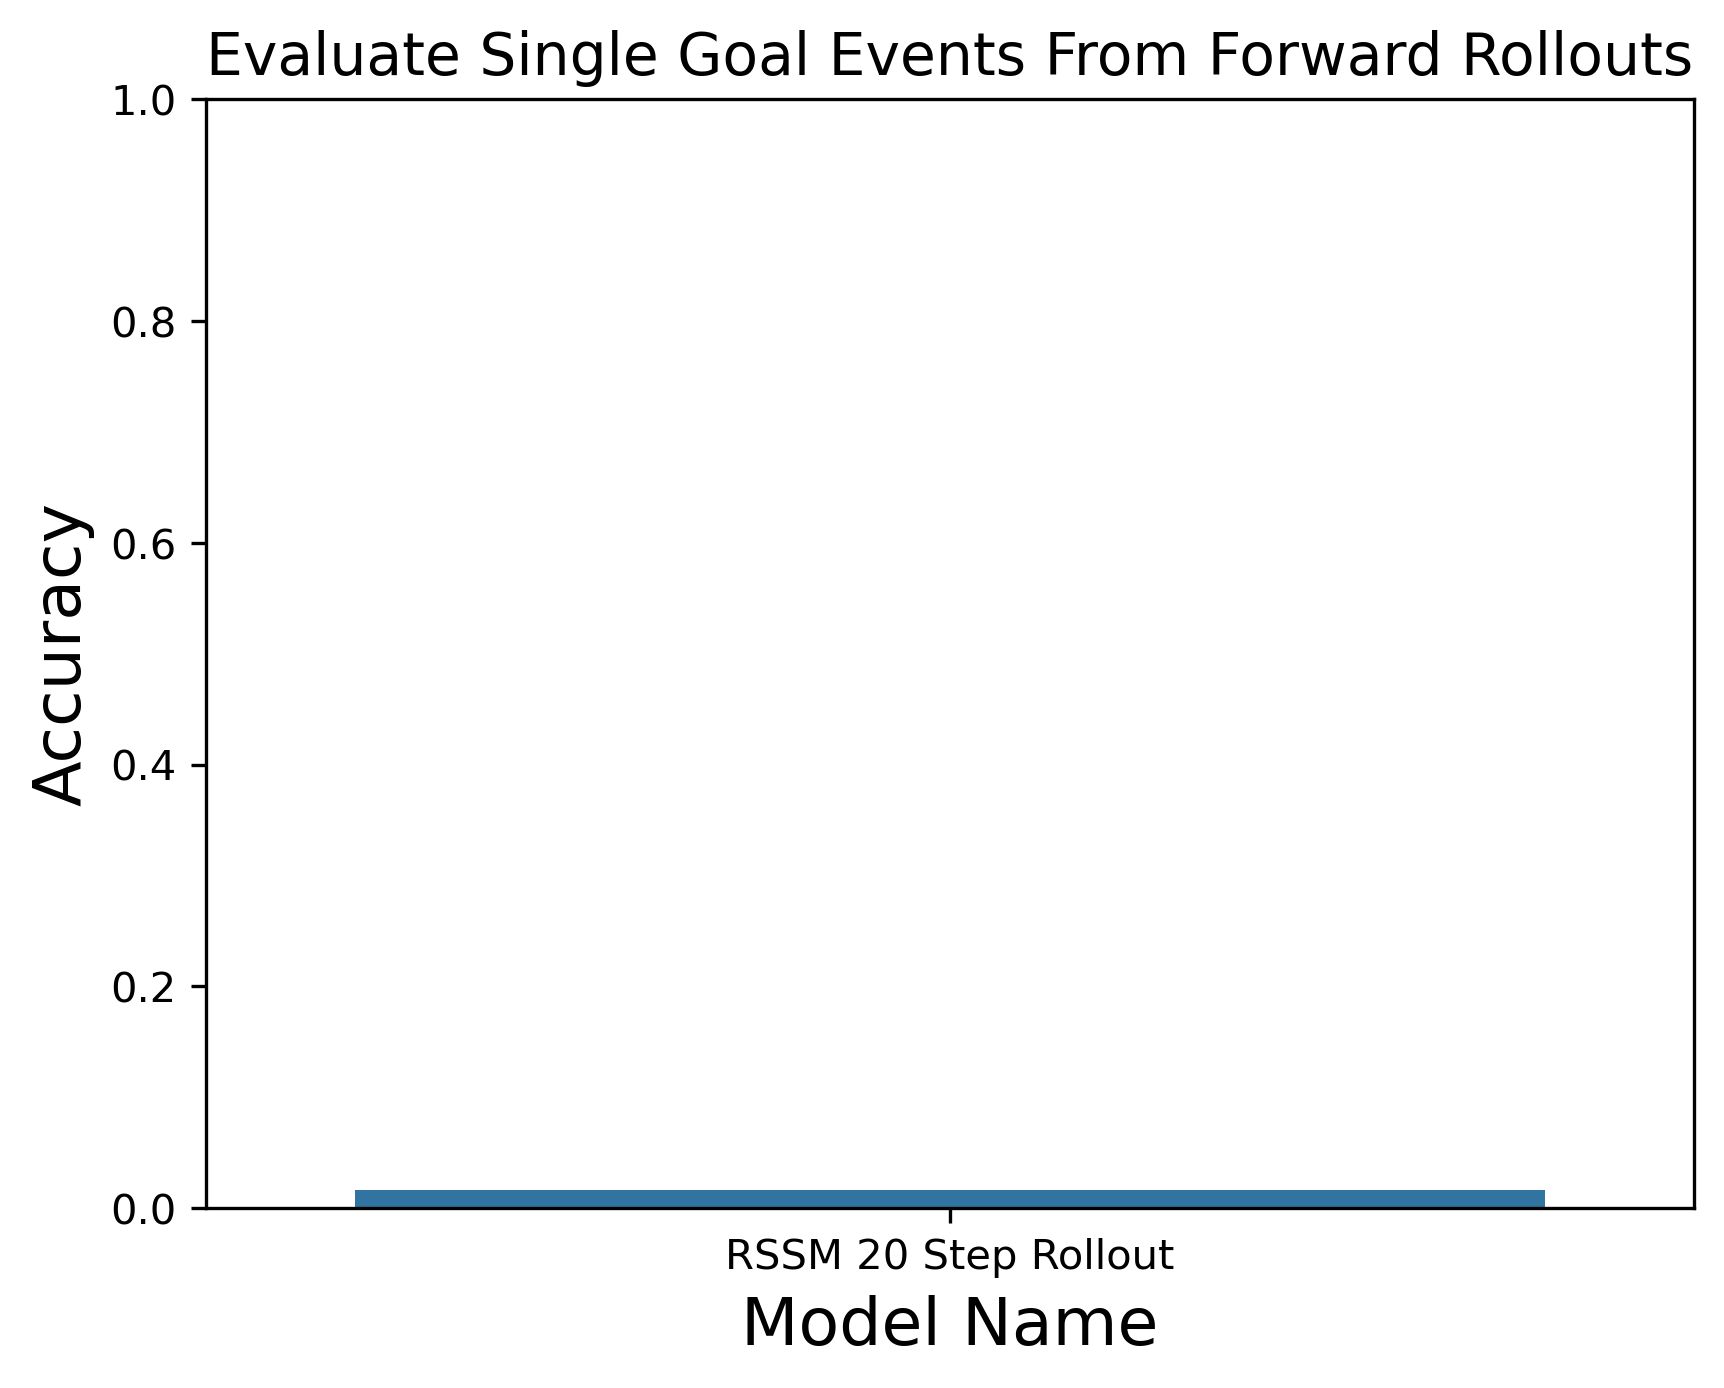
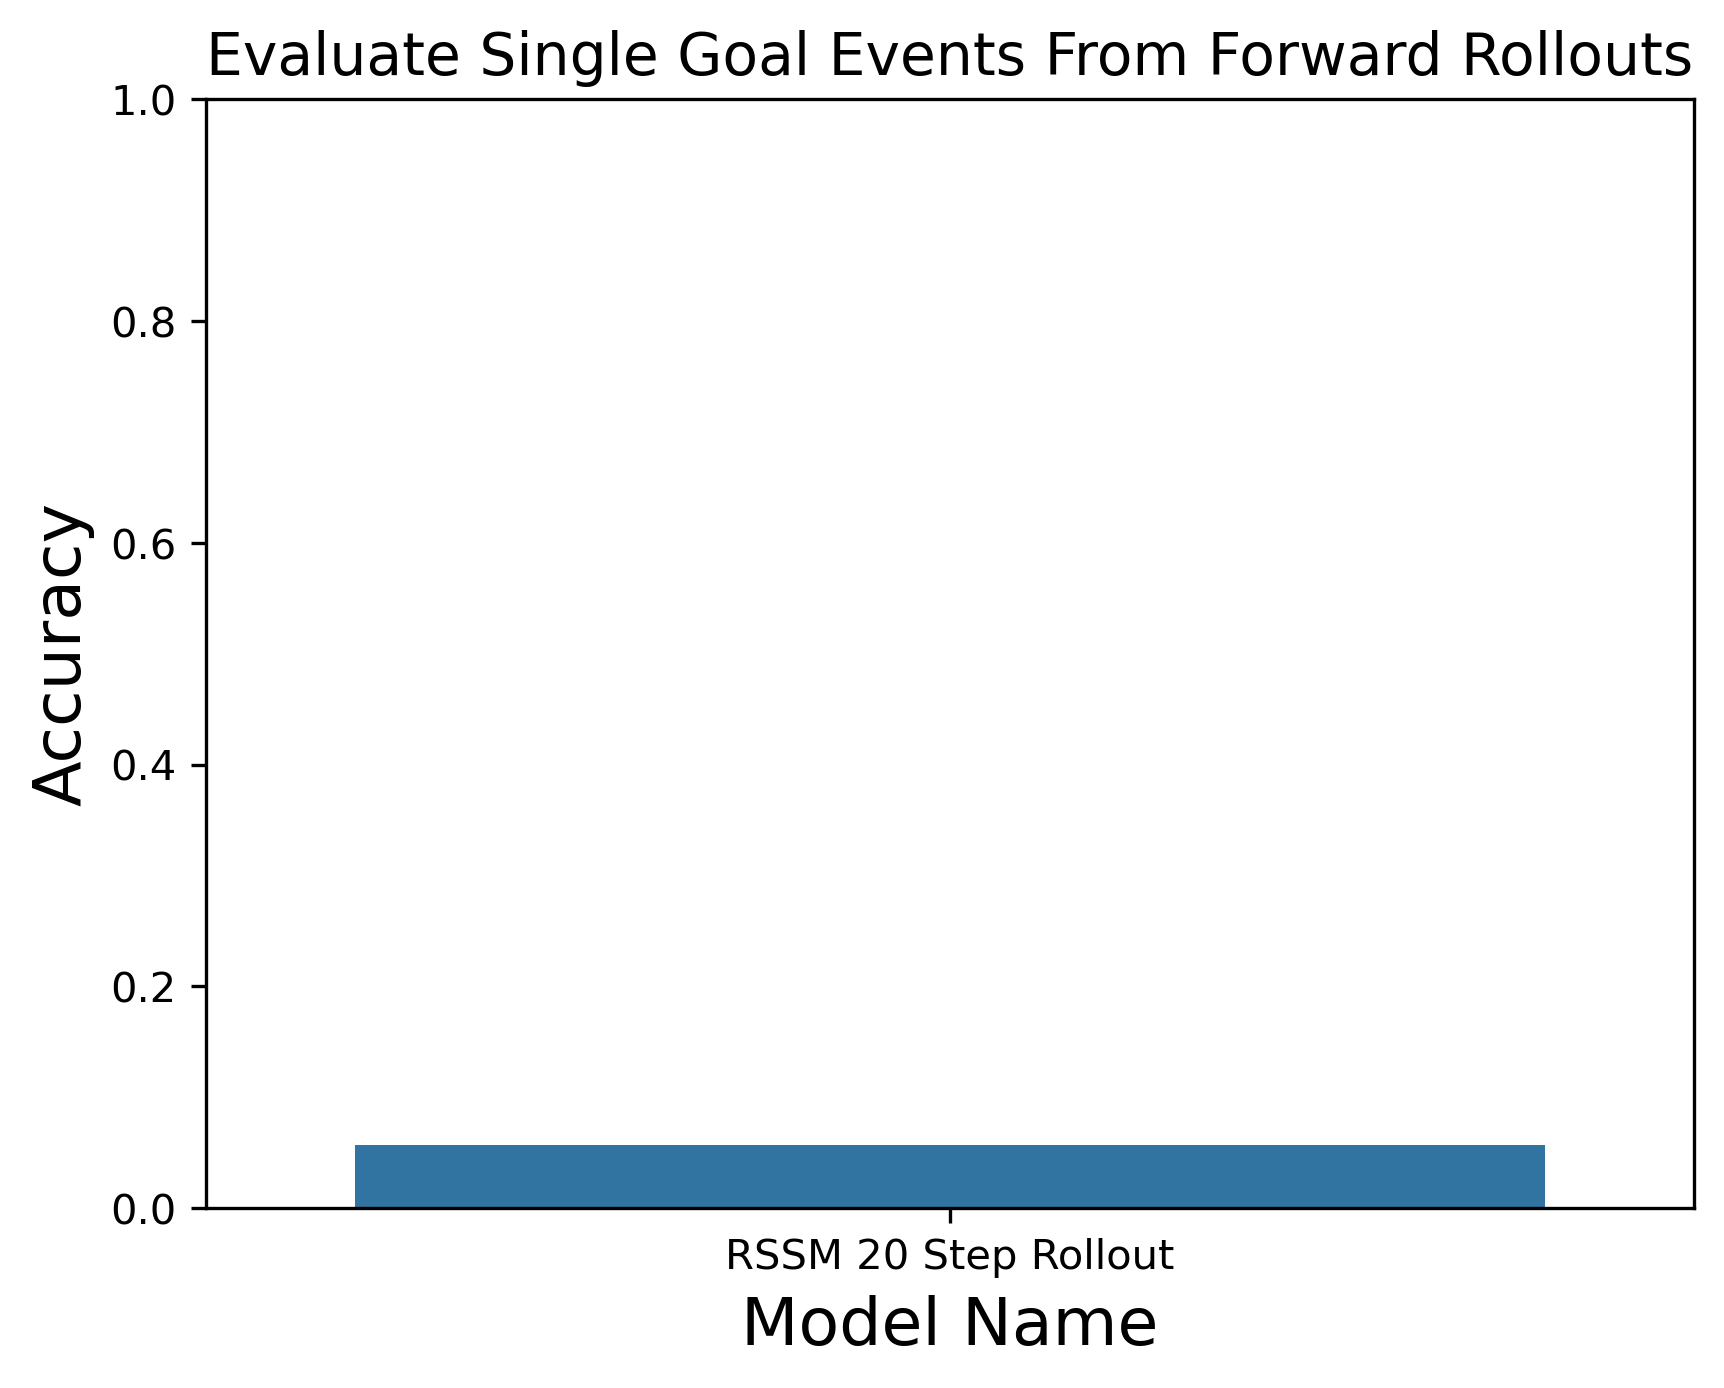
Frame Stacking MP

Changed region(s): [[0.1845, 0.8055, 0.9223, 0.8674]]

diff --git a/models.py b/models.py
@@ -1406,6 +1406,84 @@ class MultistepDelta(nn.Module):
         loss = ((x_supervise - x_hat)**2).sum()
         
         return loss
+
+
+class MultistepPredictor4D(nn.Module):
+    def __init__(self, config):
+        super(MultistepPredictor4D, self).__init__()
+        self.input_size = config['input_size']
+        self.rnn_type = config['rnn_type']
+        self.rnn_hidden_size = config['rnn_hidden_size']
+        self.num_rnn_layers = config['num_rnn_layers']
+        self.mlp_hidden_size = config['mlp_hidden_size']
+        self.num_stack = config['num_stack']
+        if 'mlp_num_layers' in config:
+            self.num_mlp_layers = config['num_mlp_layers']
+        else:
+            self.num_mlp_layers = 2
+        self.input_embed_size = config['input_embed_size']
+        self.input_embed_layers = config['input_embed_layers']
+        self.rnn_input_size = self.input_embed_size
+        self.device = "cuda" if torch.cuda.is_available() else "cpu"
+        
+        self.input_embed = self.build_mlp(self.input_embed_layers, self.input_size*self.num_stack, self.input_embed_size, self.input_embed_size, nn.ReLU)
+        
+        if self.rnn_type == 'GRU':
+            self.rnn = nn.GRU(self.rnn_input_size, self.rnn_hidden_size, num_layers=self.num_rnn_layers, batch_first=True)
+        elif self.rnn_type == 'LSTM':
+            self.rnn = nn.LSTM(self.rnn_input_size, self.rnn_hidden_size, num_layers=self.num_rnn_layers, batch_first=True)
+        self.mlp = self.build_mlp(self.num_mlp_layers, self.rnn_hidden_size, self.mlp_hidden_size, self.input_size, nn.ReLU)
+    
+    def build_mlp(self, num_layers, input_size, node_size, output_size, activation):
+        model = [nn.Linear(input_size, node_size)]
+        model += [activation()]
+        for i in range(num_layers-1):
+            model += [nn.Linear(node_size, node_size)]
+            model += [activation()]
+        model += [nn.Linear(node_size, output_size)]
+        return nn.Sequential(*model)
+
+    def forward(self, x, hidden):    
+        x = self.input_embed(x)
+        out, hidden = self.rnn(x, hidden)
+        out = self.mlp(out)
+        return out, hidden
+
+    def init_hidden(self, batch_size):
+        if self.rnn_type == 'GRU':
+            hidden_cell = torch.zeros(self.num_rnn_layers, batch_size, self.rnn_hidden_size).to(self.device)
+            return hidden_cell
+        elif self.rnn_type == 'LSTM':
+            hidden_cell = torch.zeros(self.num_rnn_layers, batch_size, self.rnn_hidden_size).to(self.device)
+            state_cell = torch.zeros(self.num_rnn_layers, batch_size, self.rnn_hidden_size).to(self.device)
+            return (hidden_cell, state_cell)
+    
+    def forward_rollout(self, x, burn_in_length, rollout_length):
+        batch_size = x.size(0)
+        hidden = self.init_hidden(batch_size)
+        output, hidden = self.forward(x[:,:burn_in_length,:], hidden)
+        # last output is next input x
+        xt_hat = output[:,-1,:].unsqueeze(1)
+        pred_outputs = []
+        for t in range(rollout_length):
+            pred_outputs.append(xt_hat.squeeze(1))
+            # output is next input x
+            xt_hat, hidden = self.forward(xt_hat, hidden)
+        assert len(pred_outputs) != 0
+        x_hat = torch.stack(pred_outputs, dim=1)
+        
+        return x_hat
+    
+    def loss(self, x, burn_in_length, rollout_length):
+        loss_fn = torch.nn.MSELoss()
+        
+        x_hat = self.forward_rollout(x, burn_in_length, rollout_length)
+        t_end = burn_in_length + rollout_length
+        x_supervise = x[:,burn_in_length:t_end,:]
+        
+        loss = loss_fn(x_supervise, x_hat)
+        
+        return loss
     
     
 class ReplayBuffer:
@@ -1429,6 +1507,40 @@ class ReplayBuffer:
             traj_sample = self.buffer[ep_ind,start:end,:]
             assert traj_sample.size(0) == self.sequence_length
             batch_trajs.append(traj_sample)
+        trajectories = torch.stack(batch_trajs, dim=0)
+        
+        return trajectories
+
+
+class ReplayBufferFrameStack:
+    def __init__(self, sequence_length, num_stack):
+        self.sequence_length = sequence_length
+        self.num_stack = num_stack
+
+    def upload_training_set(self, training_set):
+        self.buffer_size = training_set.size(0)
+        self.episode_length = training_set.size(1)
+        self.buffer = training_set
+
+    def sample(self, batch_size, random_seed=None):
+        if random_seed is not None:
+            np.random.seed(random_seed)
+            
+        episode_inds = np.random.choice(self.buffer_size, batch_size, replace=False)
+        episode_starts = np.random.randint(self.num_stack, (self.episode_length - self.sequence_length)+1, size=batch_size)
+        
+        batch_trajs = []
+        for i, ep_ind in enumerate(episode_inds):
+            stacked_trajs = []
+            for j in range(self.num_stack):
+                start = episode_starts[i] - j
+                end = start + self.sequence_length
+                traj_sample = self.buffer[ep_ind, start:end, :]
+                assert traj_sample.size(0) == self.sequence_length
+                stacked_trajs.append(traj_sample)
+            stacked_traj = torch.cat(stacked_trajs, dim=1)
+            batch_trajs.append(stacked_traj)
+            
         trajectories = torch.stack(batch_trajs, dim=0)
         
         return trajectories

diff --git a/train_world_model.py b/train_world_model.py
@@ -22,7 +22,7 @@ from torch.utils.tensorboard import SummaryWriter
 
 from analysis_utils import init_model_class
 from constants_lc import DEFAULT_VALUES, MODEL_DICT_TRAIN
-from models import ReplayBuffer
+from models import ReplayBuffer, ReplayBufferFrameStack
 # temp
 #from models import ReplayBufferEarly as ReplayBuffer
 
@@ -153,7 +153,8 @@ def main():
     batches_per_epoch = np.min([replay_buffer.buffer_size // batch_size, 50])
     
     # make validation data
-    val_buffer = ReplayBuffer(sequence_length)
+    #val_buffer = ReplayBuffer(sequence_length)
+    val_buffer = ReplayBufferFrameStack(sequence_length, num_stack=4)
     val_buffer.upload_training_set(val_data)
     seed = 100 # set seed so every model sees the same randomization
     val_batch_size = np.min([val_data.size(0), 1000])
